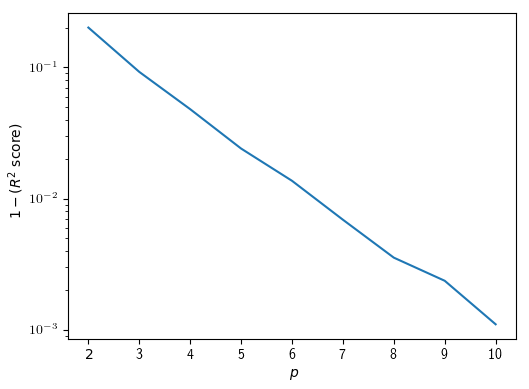
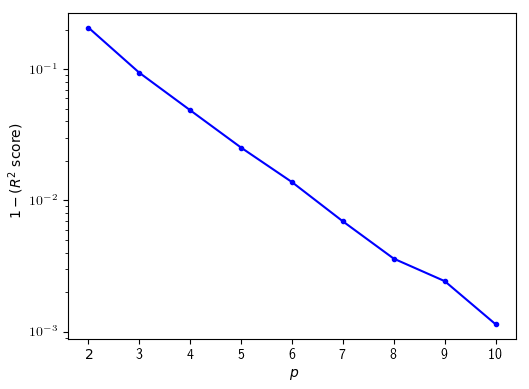
Added plot of the beta variances of OLS as function of the size of the noise added to Franke-boi

diff --git a/project1/part_a.py b/project1/part_a.py
@@ -226,18 +226,17 @@ def plot_MSE_R2() :
 
     p = np.array(p)
 
-    plt.semilogy(p, 1-np.array(R2),'r-')
+    plt.semilogy(p, 1-np.array(R2),'b-o', markersize=3)
     plt.rc('text', usetex=True)
     plt.xlabel(r"$p$", fontsize=10)
     plt.ylabel(r"$1-(R^2$ score$)$", fontsize=10)
     plt.subplots_adjust(left=0.2,bottom=0.2)
     #plt.savefig(os.path.join(os.path.dirname(__file__), 'figures', 'OLS_R2.png'), transparent=True, bbox_inches='tight')
-    #plt.show()
+    plt.show()
 
     plt.figure()
     ax = plt.gca()
-    plt.semilogy(p, MSE)
-    #plt.semilogy(p, 10.0**(-0.25*p), 'k-')
+    plt.semilogy(p, MSE, 'r-o', markersize=3)
 
     plt.rc('text', usetex=True)
     plt.xlabel(r"$p$", fontsize=10)
@@ -270,9 +269,74 @@ def plot_terrain(file_number=1) :
     ax.zaxis.set_major_locator(LinearLocator(5))
     ax.zaxis.set_major_formatter(FormatStrFormatter('%.02f'))
     ax.view_init(30, 45+90)
-    plt.savefig(os.path.join(os.path.dirname(__file__), 'figures', 'terrain'+str(file_number)+'.png'), transparent=True, bbox_inches='tight')
+    #plt.savefig(os.path.join(os.path.dirname(__file__), 'figures', 'terrain'+str(file_number)+'.png'), transparent=True, bbox_inches='tight')
     plt.show()
 
+
+def fit_franke_noise() :
+    R2_noise           = []
+    MSE_noise          = []
+    beta_noise         = []
+    betaVariance_noise = []
+
+    noise = np.linspace(1e-2,1,25)
+    k = 5
+    
+    for eta in noise :
+        designMatrix = DesignMatrix('polynomial2D', 2)
+        leastSquares = LeastSquares(backend='manual')
+        bootstrap    = Bootstrap(leastSquares, designMatrix)
+
+        N = int(1e4)
+        x = np.random.rand(N)
+        y = np.random.rand(N)
+        x_data = np.zeros(shape=(N,2))
+        x_data[:,0] = x
+        x_data[:,1] = y
+        y_data = np.zeros(shape=(N))
+
+        @jit(nopython=True, cache=True)
+        def computeFrankeValues(x_data, y) :    
+            N = x_data.shape[0]
+            for i in range(N) :
+                y[i] = franke(x_data[i,0], x_data[i,1])
+
+        computeFrankeValues(x_data, y_data)
+        y_data += eta * np.random.standard_normal(size=N)
+
+        bootstrap.resample(x_data, y_data, k)
+        
+        MSE_noise.         append(leastSquares.MSE())
+        R2_noise.          append(leastSquares.R2())
+        beta_noise.        append(bootstrap.beta)
+        betaVariance_noise.append(bootstrap.betaVariance)
+
+    betaVariance_noise = np.array(betaVariance_noise)
+    for beta in betaVariance_noise :
+        print(beta)
+
+    colors = ['b', 'g', 'r', 'c', 'm', 'y', 'k','#1f77b4', '#ff7f0e', '#2ca02c', '#d62728',
+              '#9467bd', '#8c564b', '#e377c2', '#7f7f7f',
+              '#bcbd22', '#17becf']
+    for i in range(6) :
+        plt.semilogx(noise, betaVariance_noise[:,i], colors[i]+'-o', markersize=2)
+    
+    plt.rc('text', usetex=True)
+    #plt.rc('font',**{'family':'sans-serif','sans-serif':['Helvetica']})
+    ## for Palatino and other serif fonts use:
+    #plt.rc('font',**{'family':'serif','serif':['Palatino']})    plt.xlabel(r"$p$", fontsize=16)
+    plt.xlabel(r"noise scale $\eta$", fontsize=10)
+    plt.ylabel(r"$ \sigma^2(\beta_j)$", fontsize=10)
+    plt.legend([r"intercept", 
+                r"$\beta_{x}$", 
+                r"$\beta_{y}$", 
+                r"$\beta_{x^2}$", 
+                r"$\beta_{xy}$", 
+                r"$\beta_{y^2}$"], fontsize=10)
+
+    plt.subplots_adjust(left=0.2,bottom=0.2)
+    plt.savefig(os.path.join(os.path.dirname(__file__), 'figures', 'beta_variance_OLS_noise.png'), transparent=True, bbox_inches='tight')
+    plt.show()
 
 
 
@@ -280,8 +344,8 @@ if __name__ == '__main__':
     #part_a(plotting=True)
     #plot_betaVariance()
     #plot_terrain()
-    plot_MSE_R2()
-
+    #plot_MSE_R2()
+    fit_franke_noise()
 
 
 

diff --git a/project1/src/franke.py b/project1/src/franke.py
@@ -35,4 +35,4 @@ def franke(x, y) :
     return (     0.75 * np.exp(-((9*x - 2)**2)/4  - ((9*y - 2)**2)/4 ) 
                + 0.75 * np.exp(-((9*x + 1)**2)/49 -  (9*y + 1)    /10) 
                + 0.5  * np.exp(-((9*x - 7)**2)/4  - ((9*y - 3)**2)/4 ) 
-               - 0.2  * np.exp(-((9*x - 4)**2)    - ((9*y - 7)**2)   ) ) 
+               - 0.2  * np.exp(-((9*x - 4)**2)    - ((9*y - 7)**2)   ) )
